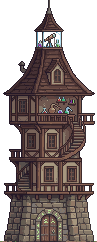
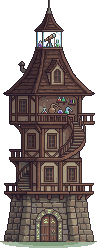
Pickendes Huhn, Schatten unter Weide und Turm, Uebernahme-Skript
Huhn: mit PixelLab erzeugt und animiert (9 Bilder), als waagerechter Streifen
zusammengesetzt und per steps(9) durchgeschaltet - dieselbe Technik wie beim
Begleiter. Bei prefers-reduced-motion steht es still.

Schatten: tree2 und der Turm schwebten sichtbar ueber der Wiese, weil ihnen
die Grundflaeche fehlt, die tree.png hat. schatten_darunter() zeichnet eine
flache Ellipse mittig auf die Unterkante und vergroessert die Leinwand nach
unten, damit nichts abgeschnitten wird.

Uebernahme: der Editor speichert die Aufstellung jetzt als szene.json,
tools/szene-anwenden.py traegt sie zwischen den Markierungen in index.html
und style.css ein und zaehlt die Versionsnummern hoch. Das Kopieren von Hand
ist mehrfach steckengeblieben - die Arbeit blieb im Editor und niemand hat es
gemerkt. Medienabfragen und das Huhn stehen ausserhalb der Markierungen und
ueberleben jeden Durchlauf.

diff --git a/assets/css/style.css b/assets/css/style.css
@@ -292,11 +292,36 @@ ul,ol{margin:0;padding:0;list-style:none}
 /* Requisiten auf der Wiese. Alles in doppelter Pixelgroesse und in
    Seitenansicht — dieselbe Regel wie fuer die Baender. */
 .prop{position:absolute;image-rendering:pixelated;image-rendering:crisp-edges}
-/* Der Baum steht rechts ausserhalb der Textspalte. 160px = 2x seine 80px. */
+/* Zwischen den beiden Markierungen schreibt tools/szene-anwenden.py. Wer hier
+   von Hand etwas eintraegt, verliert es beim naechsten Durchlauf. Alles, was
+   bleiben soll — Medienabfragen etwa —, gehoert unterhalb der Endmarkierung. */
+/* REQUISITEN ANFANG */
+.prop--bush-1{width:128px;left:6%;bottom:12%;z-index:6}
+.prop--bush-2{width:128px;left:34%;bottom:7%;z-index:6}
 .prop--tree{width:160px;right:6%;bottom:16%;z-index:6}
-.prop--bush{width:128px;z-index:6}
-.prop--bush-1{left:6%;bottom:12%}
-.prop--bush-2{left:34%;bottom:7%}
+/* REQUISITEN ENDE */
+
+/* Das Huhn ist kein gewoehnliches Bild, sondern ein Streifen aus neun
+   Einzelbildern, den CSS durchschaltet — dieselbe Technik wie beim Begleiter
+   am unteren Rand. steps(9) springt von Bild zu Bild statt weich zu
+   ueberblenden; alles andere waere bei Pixelgrafik falsch.
+   Es steht bewusst ausserhalb der Markierungen, damit szene-anwenden.py es
+   nicht ueberschreibt. */
+.prop--chicken{
+  width:80px;height:72px;                  /* 2x von 40x36 */
+  background-image:url('/assets/img/px/chicken.png?v=1');
+  background-size:720px 72px;              /* 9 Bilder a 80px */
+  background-repeat:no-repeat;
+  image-rendering:pixelated;image-rendering:crisp-edges;
+  animation:huhn 1.4s steps(9) infinite;
+  z-index:7;                               /* vor dem Turm, nicht dahinter */
+}
+@keyframes huhn{from{background-position:0 0}to{background-position:-720px 0}}
+/* Gespiegelt, falls es einmal andersherum schauen soll */
+.prop--chicken.is-west{transform:scaleX(-1)}
+/* Position: vor dem Turm, etwas tiefer — dadurch wirkt es naeher am Betrachter */
+.prop--chicken{right:14%;bottom:9%}
+@media (max-width:1000px){.prop--chicken{display:none}}
 /* Unter 1180 px wird es rechts eng, unter 1000 px steht der Baum hinter der
    Tafel — dann weicht er, wie der Begleiter auch. */
 /* Nur naeher an den Rand ruecken, Breite unveraendert: 132px waeren 1.65x
@@ -872,6 +897,7 @@ body.lb-open{overflow:hidden}
     transition-duration:.001ms!important}
   .reveal{opacity:1;transform:none}
   .cloud,.ember{animation:none}
+  .prop--chicken{animation:none}
   .cloud--1{left:12%}.cloud--2{left:48%}.cloud--3{left:72%}
   .spark{display:none}
   .buddy{display:none}

diff --git a/index.html b/index.html
@@ -27,7 +27,7 @@
 <link rel="preload" href="/assets/fonts/silkscreen-latin.woff2" as="font" type="font/woff2" crossorigin>
 <link rel="preload" href="/assets/fonts/inter-latin.woff2" as="font" type="font/woff2" crossorigin>
 <!-- ?v= bei jeder Aenderung hochzaehlen, sonst zeigen Browser die alte Fassung -->
-<link rel="stylesheet" href="/assets/css/style.css?v=13">
+<link rel="stylesheet" href="/assets/css/style.css?v=15">
 
 <script>
 /* Gespeicherte Darstellung vor dem ersten Rendern setzen — verhindert Aufblitzen. */
@@ -122,9 +122,13 @@ document.documentElement.setAttribute('data-mode',m);}catch(e){}
     <div class="scene__band scene__band--trees"></div>
     <div class="scene__ground">
       <div class="scene__props">
-        <img src="/assets/img/px/bush.png?v=1" alt="" class="prop prop--bush prop--bush-1" width="64" height="27">
-        <img src="/assets/img/px/bush.png?v=1" alt="" class="prop prop--bush prop--bush-2" width="64" height="27">
+        <!-- REQUISITEN ANFANG -->
+        <img src="/assets/img/px/bush.png?v=1" alt="" class="prop prop--bush-1" width="64" height="27">
+        <img src="/assets/img/px/bush.png?v=1" alt="" class="prop prop--bush-2" width="64" height="27">
         <img src="/assets/img/px/tree.png?v=1" alt="" class="prop prop--tree" width="80" height="101">
+        <!-- REQUISITEN ENDE -->
+        <!-- Animiert, deshalb ein span mit Hintergrundbild statt img -->
+        <span class="prop prop--chicken"></span>
       </div>
     </div>
     <div class="scene__vignette"></div>
@@ -637,6 +641,6 @@ document.documentElement.setAttribute('data-mode',m);}catch(e){}
   <button class="lb__nav lb__nav--next" id="lbNext" type="button" aria-label="Nächstes Bild">&#8250;</button>
 </div>
 
-<script src="/assets/js/main.js?v=13" defer></script>
+<script src="/assets/js/main.js?v=15" defer></script>
 </body>
 </html>

diff --git a/tools/szene-editor.html b/tools/szene-editor.html
@@ -106,6 +106,8 @@
     <select id="neu"></select>
     <button id="hinzu">+ hinzufügen</button>
   </span>
+  <button id="speichern" style="background:#f0c860;color:#2a1408;border-color:#a8801f;font-weight:600">
+    Szene speichern</button>
   <button id="reset">Auf den aktuellen Stand zurücksetzen</button>
   <label style="cursor:pointer"><input type="checkbox" id="tafel" checked>
     Texttafel einblenden</label>
@@ -345,6 +347,18 @@ document.getElementById('hinzu').addEventListener('click', function(){
                    anker:'left', x:45, y:20, faktor:2});
   gewaehlt = requisiten.length - 1;
   zeichnen();
+});
+
+/* Speichert die Aufstellung als szene.json. tools/szene-anwenden.py traegt sie
+   danach in index.html und style.css ein - damit entfaellt das Kopieren von
+   Hand, an dem es bisher jedes Mal haengen geblieben ist. */
+document.getElementById('speichern').addEventListener('click', function(){
+  var blob = new Blob([JSON.stringify(requisiten, null, 2)], {type:'application/json'});
+  var a = document.createElement('a');
+  a.href = URL.createObjectURL(blob);
+  a.download = 'szene.json';
+  a.click();
+  URL.revokeObjectURL(a.href);
 });
 
 Array.prototype.forEach.call(document.querySelectorAll('.kopieren'), function(b){

diff --git a/tools/szene-anwenden.py b/tools/szene-anwenden.py
@@ -1,0 +1,117 @@
+# -*- coding: utf-8 -*-
+"""Uebertraegt eine im Szene-Editor gebaute Aufstellung in die Seite.
+
+Der Editor rechnet nur, er schreibt nichts. Bisher musste man die zwei
+Ausgabekaesten von Hand in index.html und style.css kopieren - genau daran ist
+es mehrfach gescheitert, weil man im Editor schiebt, zufrieden ist und
+annimmt, es sei damit erledigt.
+
+Ablauf jetzt:
+
+  1. Im Editor die Requisiten setzen
+  2. Knopf "Szene speichern" -> laedt szene.json herunter
+  3. Die Datei in den Projekt-Hauptordner legen
+  4. python tools/szene-anwenden.py
+
+Geschrieben wird ausschliesslich zwischen den Markierungen:
+
+  index.html   <!-- REQUISITEN ANFANG -->  bis  <!-- REQUISITEN ENDE -->
+  style.css    /* REQUISITEN ANFANG */     bis  /* REQUISITEN ENDE */
+
+Alles ausserhalb bleibt unberuehrt. Medienabfragen wie
+@media (max-width:1000px){.prop--tree{display:none}} stehen deshalb bewusst
+unterhalb der Endmarkierung und ueberleben jeden Durchlauf.
+
+Zusaetzlich wird die Zahl hinter style.css?v= und main.js?v= um eins erhoeht,
+damit Browser die Aenderung auch sehen.
+"""
+import io
+import json
+import os
+import re
+import sys
+
+HTML = 'index.html'
+CSS = 'assets/css/style.css'
+SPRITES = 'assets/img/px'
+
+
+def lies_szene(pfad):
+    with io.open(pfad, encoding='utf-8') as f:
+        daten = json.load(f)
+    if not isinstance(daten, list) or not daten:
+        raise ValueError('szene.json enthaelt keine Requisiten')
+    return daten
+
+
+def masse(datei):
+    """Native Groesse aus der PNG-Datei lesen, nicht der JSON glauben."""
+    from PIL import Image
+    with Image.open(os.path.join(SPRITES, datei)) as im:
+        return im.width, im.height
+
+
+def baue_html(szene):
+    zeilen = []
+    for r in szene:
+        w, h = masse(r['datei'])
+        zeilen.append(
+            '        <img src="/assets/img/px/%s?v=1" alt="" class="prop %s" '
+            'width="%d" height="%d">' % (r['datei'], r['klasse'], w, h))
+    return '\n'.join(zeilen)
+
+
+def baue_css(szene):
+    zeilen = []
+    for r in szene:
+        w, _ = masse(r['datei'])
+        breite = int(round(w * r['faktor']))
+        if breite % w:
+            zeilen.append('/* Achtung: %s ist %.2fx der nativen Breite - kein '
+                          'ganzes Vielfaches, die Pixel werden ungleich breit */'
+                          % (r['klasse'], r['faktor']))
+        zeilen.append('.%s{width:%dpx;%s:%s%%;bottom:%s%%;z-index:6}'
+                      % (r['klasse'], breite, r['anker'], r['x'], r['y']))
+    return '\n'.join(zeilen)
+
+
+def ersetze(text, anfang, ende, neu, datei):
+    i = text.find(anfang)
+    j = text.find(ende)
+    if i < 0 or j < 0:
+        raise ValueError('Markierungen fehlen in %s - bitte %s und %s wieder '
+                         'einsetzen' % (datei, anfang.strip(), ende.strip()))
+    return text[:i + len(anfang)] + '\n' + neu + '\n' + text[j:]
+
+
+def hoch(treffer):
+    return '%s%d' % (treffer.group(1), int(treffer.group(2)) + 1)
+
+
+if __name__ == '__main__':
+    quelle = sys.argv[1] if len(sys.argv) > 1 else 'szene.json'
+    if not os.path.exists(quelle):
+        print('Nicht gefunden: %s' % quelle)
+        print('Im Editor auf "Szene speichern" klicken und die Datei in den '
+              'Projekt-Hauptordner legen.')
+        raise SystemExit(1)
+
+    szene = lies_szene(quelle)
+
+    s = io.open(HTML, encoding='utf-8').read()
+    s = ersetze(s, '<!-- REQUISITEN ANFANG -->', '        <!-- REQUISITEN ENDE -->',
+                baue_html(szene), HTML)
+    s = re.sub(r'(style\.css\?v=)(\d+)', hoch, s)
+    s = re.sub(r'(main\.js\?v=)(\d+)', hoch, s)
+    io.open(HTML, 'w', encoding='utf-8').write(s)
+
+    c = io.open(CSS, encoding='utf-8').read()
+    c = ersetze(c, '/* REQUISITEN ANFANG */', '/* REQUISITEN ENDE */',
+                baue_css(szene), CSS)
+    io.open(CSS, 'w', encoding='utf-8').write(c)
+
+    print('%d Requisiten uebernommen:' % len(szene))
+    for r in szene:
+        print('   %-16s %-20s %s:%s%%  bottom:%s%%  %sx'
+              % (r['datei'], r['klasse'], r['anker'], r['x'], r['y'], r['faktor']))
+    print('\nVersionsnummern erhoeht. Seite neu laden.')

diff --git a/tools/szene-generiert.py b/tools/szene-generiert.py
@@ -26,7 +26,7 @@ Aufruf aus dem Projekt-Hauptordner:   python tools/szene-generiert.py
 """
 import colorsys
 import os
-from PIL import Image
+from PIL import Image, ImageDraw
 
 ROH = 'tools/pixellab-roh'
 ZIEL = 'assets/img/px'
@@ -88,6 +88,41 @@ def tausche(im, karte, ab_zeile=0, alpha=None):
     return n
 
 
+def schatten_darunter(im, breite=0.82, flachheit=6.5, alpha=100):
+    """Weiche Ellipse am Fuss, sonst scheint das Objekt ueber der Wiese zu schweben.
+
+    Die Ellipse sitzt mittig auf der Unterkante - halb darueber, halb darunter,
+    wie ein Schattenwurf bei hochstehender Sonne. Dafuer waechst die Leinwand
+    unten um die halbe Ellipsenhoehe, damit nichts abgeschnitten wird.
+
+    breite     Anteil der Sprite-Breite, den der Schatten einnimmt
+    flachheit  je groesser, desto flacher die Ellipse
+    alpha      0-255, wie kraeftig der Schatten ist
+    """
+    kasten = im.getbbox()
+    if not kasten:
+        return im
+    links, oben, rechts, unten = kasten
+    breite_px = int((rechts - links) * breite)
+    hoehe_px = max(4, int(breite_px / flachheit))
+
+    neu = Image.new('RGBA', (im.width, im.height + hoehe_px // 2), (0, 0, 0, 0))
+    schatten = Image.new('RGBA', neu.size, (0, 0, 0, 0))
+    d = ImageDraw.Draw(schatten)
+    mitte_x = (links + rechts) // 2
+    d.ellipse([mitte_x - breite_px // 2, unten - hoehe_px // 2,
+               mitte_x + breite_px // 2, unten + hoehe_px // 2],
+              fill=SCHATTEN + (alpha,))
+    # weicher Kern, damit die Kante nicht wie ein Aufkleber wirkt
+    d.ellipse([mitte_x - breite_px // 3, unten - hoehe_px // 3,
+               mitte_x + breite_px // 3, unten + hoehe_px // 3],
+              fill=SCHATTEN + (min(255, alpha + 45),))
+
+    neu.alpha_composite(schatten)
+    neu.alpha_composite(im, (0, 0))
+    return neu
+
+
 def auf_inhalt(im):
     k = im.getbbox()
     return im.crop(k) if k else im
@@ -124,5 +159,7 @@ if __name__ == '__main__':
     sichern(auf_inhalt(lade('flower1.png')), 'flower1.png')
     sichern(auf_inhalt(lade('bush1.png')), 'bush1.png')
     sichern(auf_inhalt(lade('bush2.png')), 'bush2.png')
-    sichern(auf_inhalt(lade('tree2.png')), 'tree2.png')
-    sichern(auf_inhalt(lade('tower.png')), 'tower.png')
+    sichern(auf_inhalt(schatten_darunter(lade('tree2.png'))), 'tree2.png')
+    # Der Turm steht auf breitem Stein - flacherer, breiterer Schatten
+    sichern(auf_inhalt(schatten_darunter(lade('tower.png'),
+                                         breite=0.95, flachheit=9, alpha=115)), 'tower.png')
